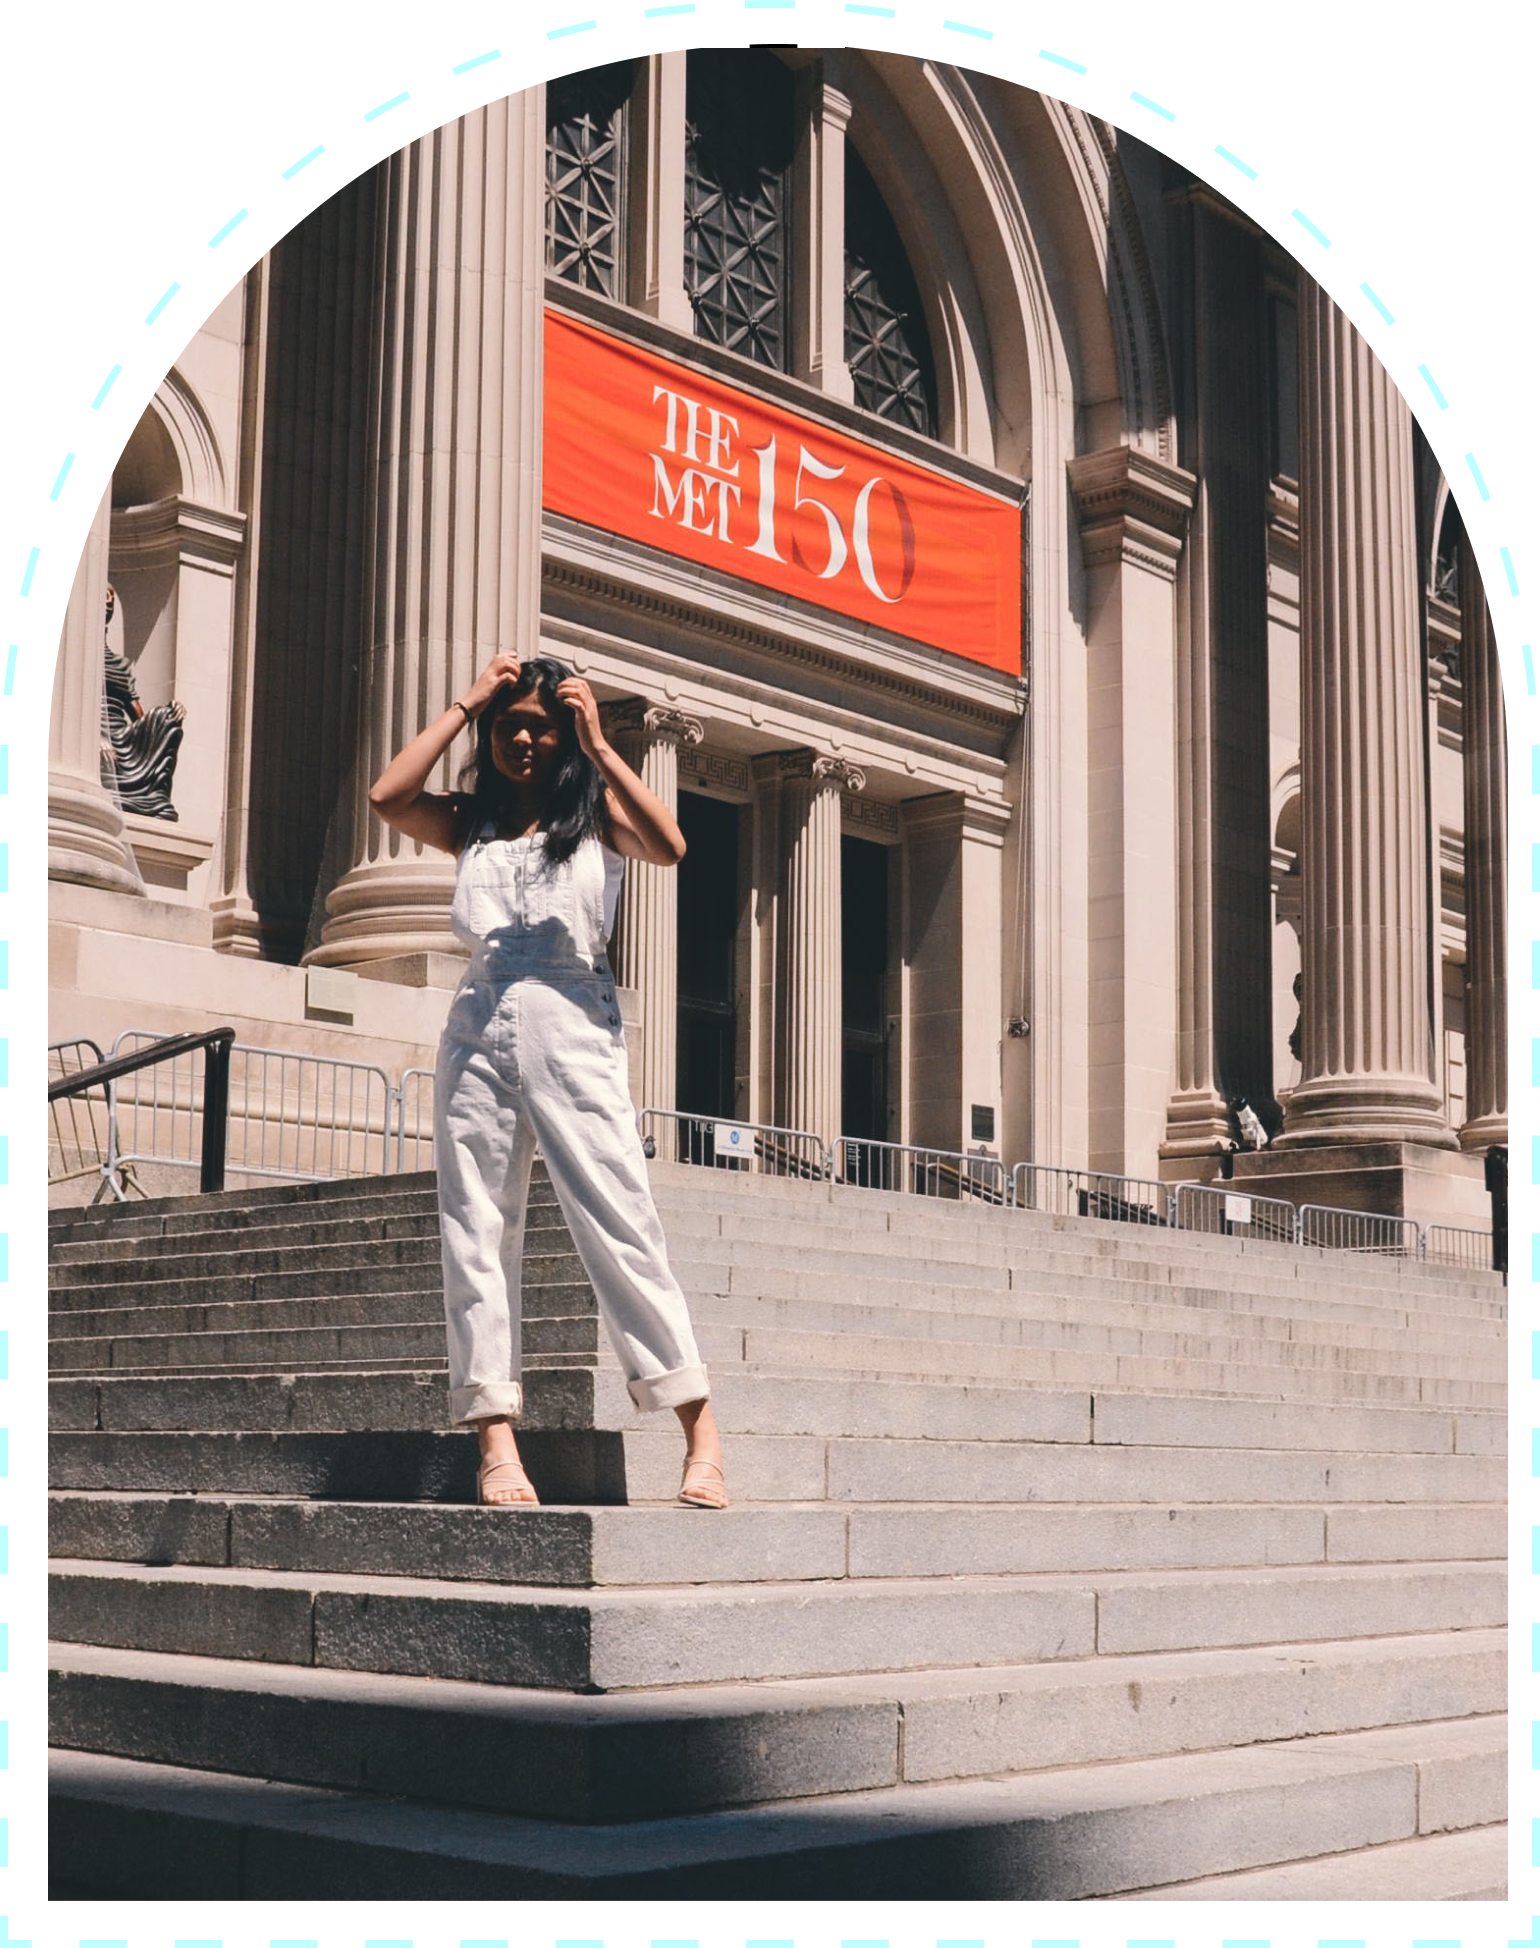
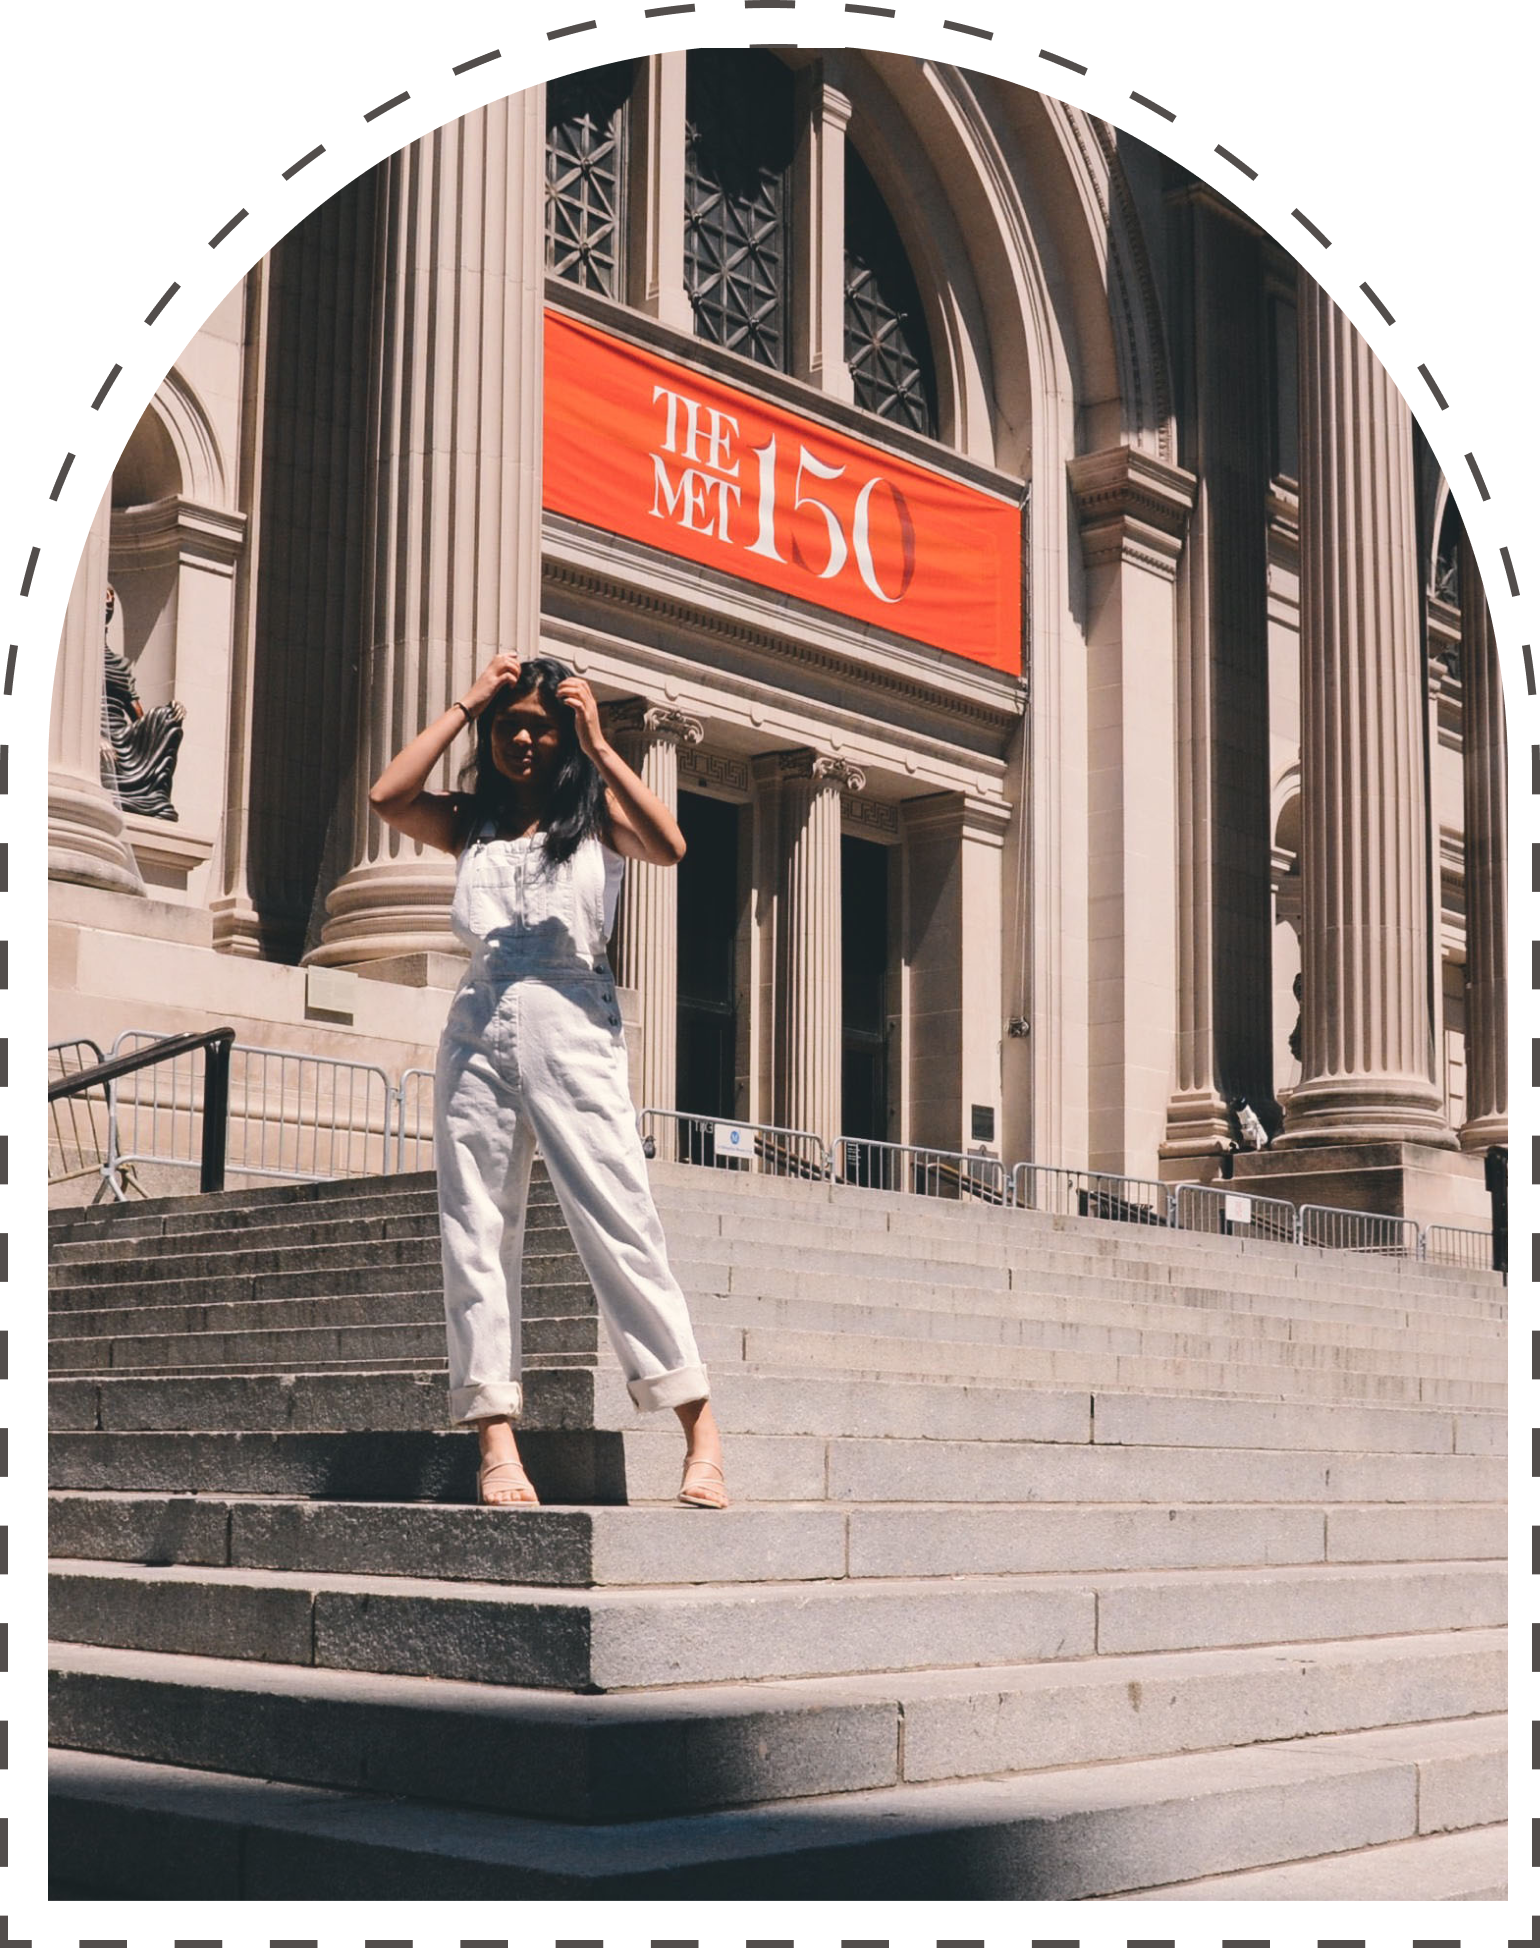
changed theme color

diff --git a/src/index.css b/src/index.css
@@ -3,18 +3,10 @@
 }
 
 body {
-  font-family: 'Space Mono', monospace;
-  background-color: #1A4DD4;
-  color: #BFFFFF;
+  font-family: 'Public Sans', sans-serif;
+  background-color: #F0EBE8;
+  color: #524D4B;
 }
-
-/* .tilt-right {
-  transform: rotate(0.08turn);
-}
-
-.tilt-left {
-  transform: rotate(-0.08turn);
-} */
 
 img {
   object-fit: contain;
@@ -25,14 +17,14 @@ img {
 }
 
 .web-link {
-  color: #BFFFFF;
-  border-bottom: #BFFFFF dashed 1px;
+  color: #524D4B;
+  border-bottom: #524D4B dashed 1px;
 }
 
 .web-link:hover {
-  color: #F85236;
+  color: #272524;
   text-decoration: none;
-  border-bottom: #F85236 dashed 1px;
+  border-bottom: #272524 dashed 1px;
 }
 
 footer {

diff --git a/public/index.html b/public/index.html
@@ -4,7 +4,8 @@
     <meta charset="utf-8" />
     <link rel="icon" href="./img/favicon.png" />
     <link rel="preconnect" href="https://fonts.gstatic.com">
-    <link href="https://fonts.googleapis.com/css2?family=Space+Mono:wght@400;700&display=swap" rel="stylesheet">
+    <link rel="preconnect" href="https://fonts.gstatic.com">
+<link href="https://fonts.googleapis.com/css2?family=Public+Sans:wght@100;200;300;400;500;600;700;800;900&display=swap" rel="stylesheet">
     <meta name="viewport" content="width=device-width, initial-scale=1" />
     <meta
       name="description"
